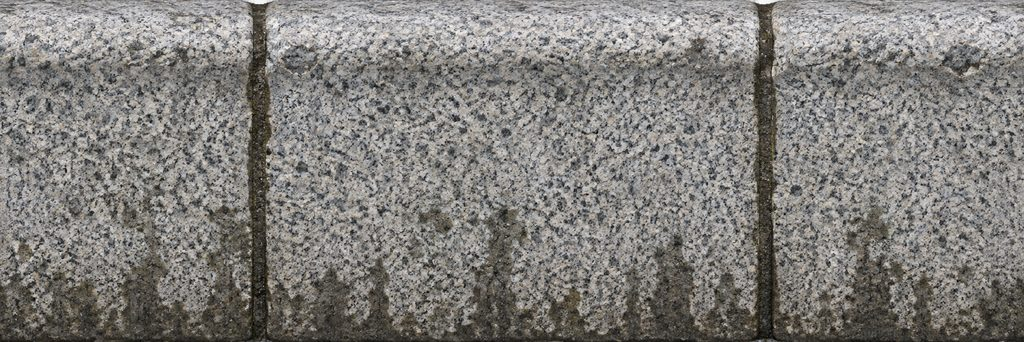
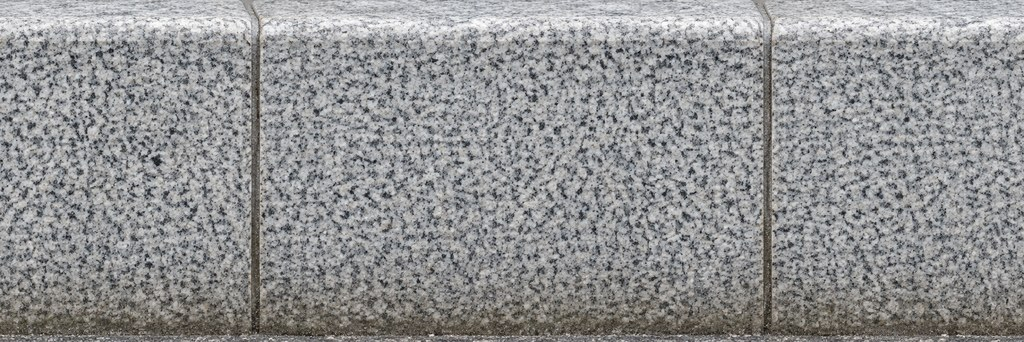
Roads: new seamless Figma asphalt, granite mosaic sidewalk and curb textures; higher ground resolution on desktop
Claude-Session: https://claude.ai/code/session_01Tt18V6mhpxc2nVgtq6weTV

diff --git a/public/r3.js b/public/r3.js
@@ -6,7 +6,7 @@
    ========================================================= */
 const R3={ok:false,off:/[?&]2d/.test(location.search),chunks:new Map(),CH:16,PX:28,HK:620,camMode:'top',
  cars:new Map(),peds:new Map(),markers:[],tmp:null,lastT:0,
- init(){
+ init(){this.PX=(matchMedia('(pointer:coarse)').matches)?36:48;
   if(this.off||!window.THREE)return;const T3=THREE;
   try{
    const cv=document.getElementById('c3');
@@ -188,7 +188,7 @@ const R3={ok:false,off:/[?&]2d/.test(location.search),chunks:new Map(),CH:16,PX:
    const isR=t=>t===ROAD||t===BRIDGE,tx0=Math.floor(x0/T),ty0=Math.floor(y0/T);
    for(let ty=ty0;ty<ty0+CH;ty++)for(let tx=tx0;tx<tx0+CH;tx++){if(window.USTI)break;const t0=tileAt(tx,ty);if(!isR(t0))continue;const o=t0===BRIDGE?NE.orange:NE.pink,X=tx*T,Y=ty*T,w=1.6,h1=2.6;
     if(!isR(tileAt(tx,ty-1)))box(o,X,Y,X+T,Y+w,.5,h1);if(!isR(tileAt(tx,ty+1)))box(o,X,Y+T-w,X+T,Y+T,.5,h1);if(!isR(tileAt(tx-1,ty)))box(o,X,Y,X+w,Y+T,.5,h1);if(!isR(tileAt(tx+1,ty)))box(o,X+T-w,Y,X+T,Y+T,.5,h1)}
-   if(!this.neonM){const mk=(tint)=>{const m=new T3.MeshLambertMaterial({color:tint,emissive:0x1a120c});const tx=this.curbTex||(this.curbTex=new T3.TextureLoader().load('art/tex/curb.jpg',t=>{t.colorSpace=T3.SRGBColorSpace}));tx.wrapS=tx.wrapT=T3.RepeatWrapping;m.map=tx;
+   if(!this.neonM){const mk=(tint)=>{const m=new T3.MeshLambertMaterial({color:tint,emissive:0x1a120c});const tx=this.curbTex||(this.curbTex=new T3.TextureLoader().load('art/tex/curb.jpg?v=3',t=>{t.colorSpace=T3.SRGBColorSpace}));tx.wrapS=tx.wrapT=T3.RepeatWrapping;m.map=tx;
      m.onBeforeCompile=sh=>{sh.vertexShader=sh.vertexShader.replace('#include <common>','#include <common>\nvarying vec3 vCW;').replace('#include <begin_vertex>','#include <begin_vertex>\nvCW=(modelMatrix*vec4(position,1.)).xyz;');
       sh.fragmentShader=sh.fragmentShader.replace('#include <common>','#include <common>\nvarying vec3 vCW;').replace('#include <map_fragment>','vec4 sampledDiffuseColor=texture2D(map,vec2((vCW.x+vCW.z)/72.,vCW.y/3.2+.05));diffuseColor*=sampledDiffuseColor;')};m.customProgramCacheKey=()=>'curb';return m};
     this.neonM={pink:mk(0xffffff),orange:mk(0xd8d2c8)}}
@@ -200,7 +200,7 @@ const R3={ok:false,off:/[?&]2d/.test(location.search),chunks:new Map(),CH:16,PX:
  detail(){if(this.detTex)return this.detTex;const T3=THREE,cv=document.createElement('canvas');cv.width=cv.height=512;const x=cv.getContext('2d');x.fillStyle='#808080';x.fillRect(0,0,512,512);
   const t=this.detTex=new T3.CanvasTexture(cv);t.wrapS=t.wrapT=T3.RepeatWrapping;t.anisotropy=Math.min(8,this.renderer.capabilities.getMaxAnisotropy());
   const im=new Image();im.onload=()=>{x.drawImage(im,0,0,512,512);const d=x.getImageData(0,0,512,512),a=d.data;let sum=0;for(let i=0;i<a.length;i+=4)sum+=a[i]*.3+a[i+1]*.59+a[i+2]*.11;const mean=sum/(a.length/4);
-   for(let i=0;i<a.length;i+=4){const l=a[i]*.3+a[i+1]*.59+a[i+2]*.11,v=clamp(128+(l-mean)*1.6,0,255);a[i]=a[i+1]=a[i+2]=v}x.putImageData(d,0,0);t.needsUpdate=true};im.src='art/tex/asphalt.jpg';return t},
+   for(let i=0;i<a.length;i+=4){const l=a[i]*.3+a[i+1]*.59+a[i+2]*.11,v=clamp(128+(l-mean)*1.6,0,255);a[i]=a[i+1]=a[i+2]=v}x.putImageData(d,0,0);t.needsUpdate=true};im.src='art/tex/asphalt.jpg?v=3';return t},
  groundMat(tex){const T3=THREE,m=new T3.MeshLambertMaterial({map:tex}),det=this.detail();
   m.onBeforeCompile=sh=>{sh.uniforms.uDet={value:det};sh.vertexShader=sh.vertexShader.replace('#include <common>','#include <common>\nvarying vec2 vGW;').replace('#include <begin_vertex>','#include <begin_vertex>\nvGW=(modelMatrix*vec4(position,1.)).xz;');
    sh.fragmentShader=sh.fragmentShader.replace('#include <common>','#include <common>\nuniform sampler2D uDet;varying vec2 vGW;').replace('#include <map_fragment>','#include <map_fragment>\n{float d1=texture2D(uDet,vGW/64.).r,d2=texture2D(uDet,vGW/23.+.37).r;diffuseColor.rgb*=clamp(.55+d1*.62+(d2-.5)*.45,.4,1.6);}')};

diff --git a/public/index.html b/public/index.html
@@ -931,8 +931,8 @@ const Snd={ctx:null,
 /* ---------------- CANVAS ---------------- */
 const cv=$('c'),ctx=cv.getContext('2d');
 const lc=document.createElement('canvas'),lctx=lc.getContext('2d');
-const TEXDEF={asphalt:.375,walk:.1875,grass:.375,water:.5,forest:.75,roof_tar:.25,roof_tiles:.18,roof_metal:.3},TEX={};
-const TEXIMG={};for(const k in TEXDEF){const im=new Image();im.onload=()=>{TEXIMG[k]=im;try{TEX[k]=ctx.createPattern(im,'repeat')}catch(e){}};im.src='art/tex/'+k+'.jpg?v=2'}
+const TEXDEF={asphalt:.1875,walk:.06,grass:.375,water:.5,forest:.75,roof_tar:.25,roof_tiles:.18,roof_metal:.3},TEX={};
+const TEXIMG={};for(const k in TEXDEF){const im=new Image();im.onload=()=>{TEXIMG[k]=im;try{TEX[k]=ctx.createPattern(im,'repeat')}catch(e){}};im.src='art/tex/'+k+'.jpg?v=3'}
 const DM=typeof DOMMatrix!=='undefined';
 function pat(k,ox,oy,mul){const p=TEX[k];if(!p)return null;if(DM&&p.setTransform){const s=TEXDEF[k]*(mul||1);p.setTransform(new DOMMatrix([s,0,0,s,ox||0,oy||0]))}return p}
 let VW=0,VH=0,DPR=1;
@@ -1995,7 +1995,7 @@ import {KTX2Loader} from './vendor/jsm/loaders/KTX2Loader.js';
 import {MeshoptDecoder} from './vendor/jsm/libs/meshopt_decoder.module.js';
 import * as SkeletonUtils from './vendor/jsm/utils/SkeletonUtils.js';
 window.THREE=THREE;window.TADD={EffectComposer,RenderPass,UnrealBloomPass,OutputPass,GLTFLoader,RGBELoader,SkeletonUtils,DRACOLoader,KTX2Loader,MeshoptDecoder};
-const s=document.createElement('script');s.src='r3.js?v=116';document.body.appendChild(s);
+const s=document.createElement('script');s.src='r3.js?v=117';document.body.appendChild(s);
 </script>
 </body>
 </html>
